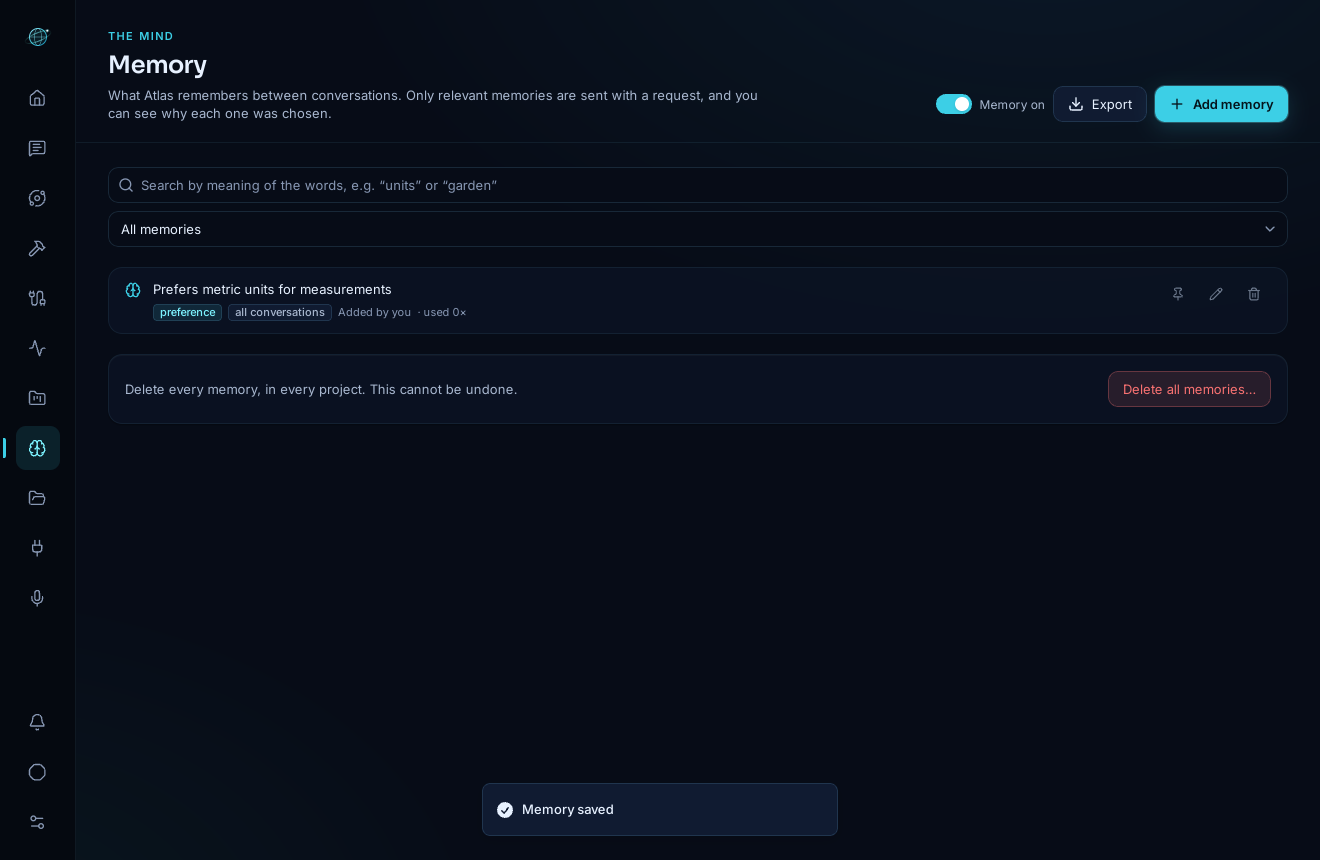
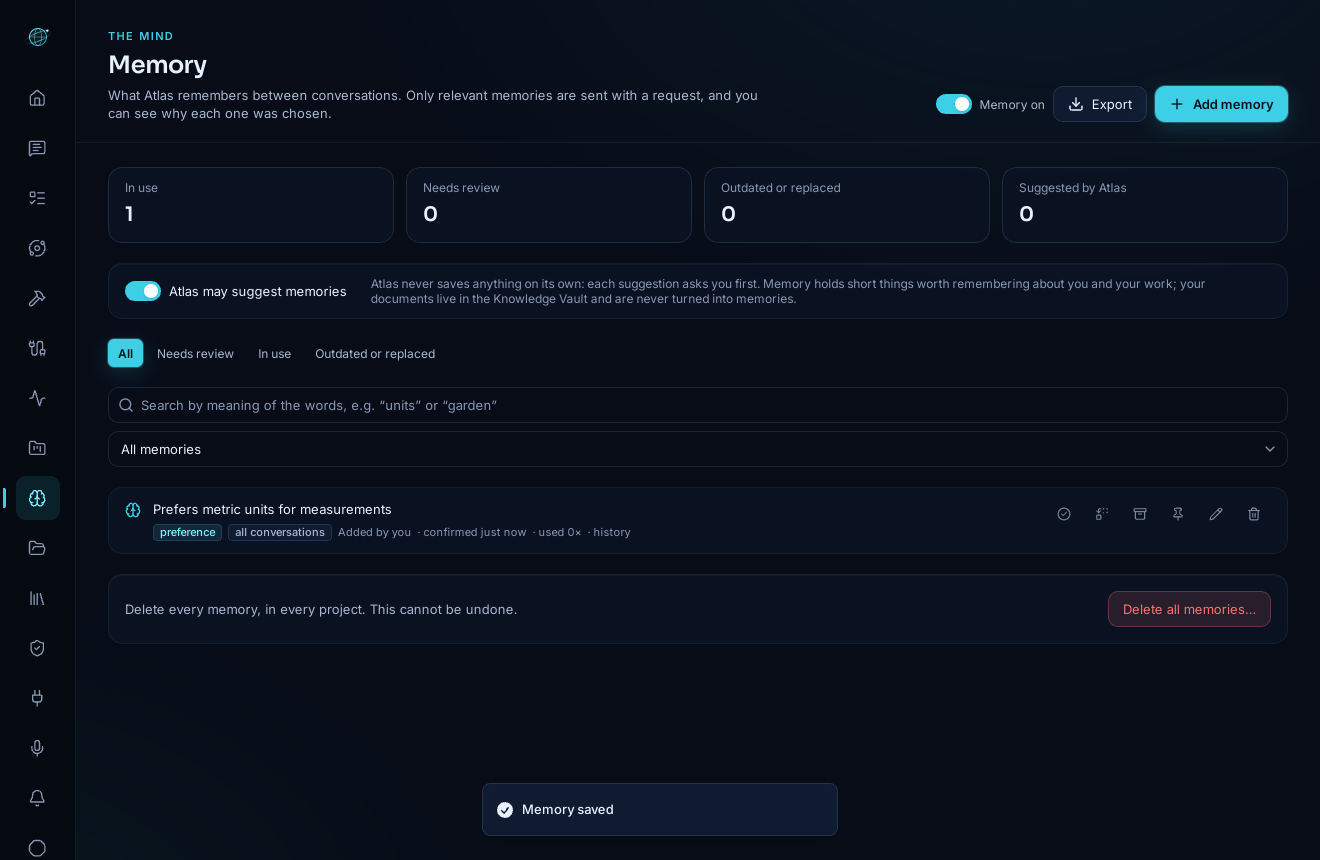
Atlas 0.5.0 stage 6 complete: memory quality and the Trust Center
Rust 222 passed (core 220, shell 2), frontend 88, end-to-end 27 of 27 (main 26
incl. the Memory and Trust Center test and the Trust page in the accessibility
audit; restart 1 incl. memory and activity persistence). Production binary has
none of the test hooks. Screenshots, What's New, test report, test status and
the Stage 7 handover.

Claude-Session: https://claude.ai/code/session_014sw25h5Jgs7X2cf1F1bATJ

diff --git a/atlas/docs/project/STAGE6_TEST_REPORT.md b/atlas/docs/project/STAGE6_TEST_REPORT.md
@@ -1,0 +1,73 @@
+# Stage 6 test report: memory quality and the Trust Center
+
+**Date:** 2026-11-15 · **Branch:** `claude/prometheus-ai-evaluation-pxqzfr` · **Platform:** Linux x86_64
+container (Xvfb, WebKitWebDriver). Windows and macOS: CI on push, not run here. **Not released.**
+Design: `docs/MEMORY.md`, `docs/TRUST_CENTER.md`.
+
+## Results (all on the final code)
+
+| Suite | Command | Result |
+|---|---|---|
+| Rust core, unit | `cargo test -p atlas-core` (lib) | 127 passed, 1 ignored (OS keyring; Windows CI). New: memory lifecycle 3 (duplicates and conflicts, corrections/supersession/outdated/review, budget), audit 1, Trust Center 1 |
+| Rust core, integration | (same, `tests/*.rs`) | 93 passed: **trust 8** (new), vault 13, engine 31, focus 8, scheduler 8, briefing 3, sibling bridge 6, todos 7, voice 9 |
+| Rust core, ignored by design | (same) | 6: live providers 2, real Prometheus runtime 1, real voice engines 1, opt-in Vault fixture check 1, OS keyring 1 |
+| Rust desktop shell | `cargo test -p atlas-desktop` | 2 passed |
+| Clippy `-D warnings` | core all targets; shell all targets with `--features e2e` | clean |
+| Frontend | `pnpm typecheck`, `pnpm lint`, `vitest run` | clean, clean, **88 passed** (17 files; 82 before + 6 Trust Center and Memory tests) |
+| End-to-end, main phase | `tests/e2e/run.sh` → `app.e2e.mjs` | **26 of 26** (25 before + the Memory and Trust Center test; the accessibility audit now includes the Trust Center) |
+| End-to-end, restart phase | `restart.e2e.mjs` | **1 of 1** (now also checks memories and the activity record after relaunch) |
+| Production/test separation | `tests/release/no-test-hooks.sh` | production debug binary: none of the 5 test hooks; e2e binary: all 5 |
+
+Totals: Rust 222 passed, 0 failed. Frontend 88. End-to-end 27 of 27.
+
+## The directive's end-to-end flow (§13)
+
+| # | Step | Where |
+|---|---|---|
+| 1 | Create a useful memory | e2e: Atlas proposes, the owner approves in the conversation |
+| 2 | Retrieve it later | e2e: a new conversation; the scripted model answers only from the memories it was given |
+| 3–4 | Correct it; the corrected one is used | e2e: Memory page edit; history shows "Corrected" with the old wording; the next answer uses the new text |
+| 5–6 | Remove it; no longer retrieved | e2e |
+| 7–8 | Disable memory creation; none created | e2e: switched off in the Trust Center; the next proposal is refused by the core (no approval, nothing saved) |
+| 9–10 | Import a Vault document; in the Trust Center | e2e: `vault.import` (by you) |
+| 11–12 | Document question; transmission recorded | e2e: `vault.passages` with the document name, provider, model, stayed on this computer |
+| 13–14 | Revoke a permission; the core refuses | e2e (memory suggestions); core: offline mode turned on while an approval waited stops the action; a gate tightened applies to the very next action |
+| 15–16 | Restart; memory and activity persist | restart phase |
+
+## Automated, simulated, not validated
+
+* **Automated, real code:** the core (engine, dispatcher, approvals, policy, memory, audit), SQLite, the UI
+  in the real webview.
+* **Simulated:** the model (scripted: proposes memories when asked, answers only from the memories and
+  passages in its request); `test.fetch` (a test-only tool that stands in for an internet tool, compiled only
+  with test support).
+* **Not validated end-to-end:** cloud providers (the e2e model is local, so "left this computer" is false
+  there; the true case is covered by `test.fetch` in the core tests and by `provider.request` using
+  `ProviderKind::is_local`), Windows and macOS.
+
+## Defects found during this stage
+
+| Defect | Fix | Test |
+|---|---|---|
+| Permissions were decided from the settings captured when the turn started: a gate tightened mid-turn, or offline mode turned on while an approval waited, did not apply to that turn | Decide from the live settings at request and execution time, and again after the approval | `a_permission_revoked_while_an_approval_waits…`, `the_next_action_follows_the_settings…` |
+| Duplicate detection (new code) used search terms, which drop numbers and short words: "room 12" and "room 14" would collide | Compare every word | memory unit test |
+| Owner-started Vault actions were recorded as Atlas's | Recorded with actor "user" | screenshot 25b |
+
+## Performance (measured, debug build)
+
+5,000 audit events written in 346 ms; one filtered timeline page in 0.45 ms; a memory search over 2,000
+memories in 13 ms (`scale_thousands_of_events_and_memories_stay_fast`). The UI loads the timeline 40
+events at a time.
+
+## Security checks
+
+* No secret in the activity log (redaction test); no message, memory or document text in it (core and e2e).
+* The window cannot authorize: controls call validated commands; the dispatcher enforces at execution.
+* Memories are labelled as overridable, never instructions; a document cannot create a memory (the tool
+  description forbids it, and every proposal needs the owner's approval).
+* The activity log is read-only from the Trust Center; clearing it is itself recorded.
+
+## Connectors
+
+Mobbin: unavailable (paid plan). No new libraries were needed, so Context7 and Parallel Search were not
+used this stage. Sentry and Supabase: not used; Atlas has neither.

diff --git a/atlas/docs/project/CURRENT_STATE.md b/atlas/docs/project/CURRENT_STATE.md
@@ -2,7 +2,7 @@
 
 **Updated:** 2026-11-14 · **Branch:** `claude/prometheus-ai-evaluation-pxqzfr` · **Released:** 0.4.2
 
-**Working on:** 0.5.0, Stage 6 (memory quality, Trust Center) is next. Plan: `PLAN_0.5-0.7.md`.
+**Working on:** 0.5.0, Stage 7 (specialists, personality) is next. Plan: `PLAN_0.5-0.7.md`.
 
 ## Standing rules from the owner
 * Every new feature gets a screenshot in `docs/screenshots/` and `docs/WHATS_NEW_SCREENSHOTS.md`.
@@ -19,18 +19,20 @@
 | 3 Command Center, briefing | Done (tests + e2e + screenshots) |
 | 4 Focus Mode, recap | Done (tests + e2e incl. restart + screenshots; `STAGE4_TEST_REPORT.md`) |
 | 5 Knowledge Vault | Done (tests + e2e + screenshots; `STAGE5_TEST_REPORT.md`, `docs/KNOWLEDGE_VAULT.md`) |
-| 6 Memory quality, Trust Center | Not started |
+| 6 Memory quality, Trust Center | Done (tests + e2e + screenshots; `STAGE6_TEST_REPORT.md`, `docs/MEMORY.md`, `docs/TRUST_CENTER.md`) |
 | 7 Specialists, personality | Not started |
 
 ## Next
-Stage 6: memory quality and the Trust Center (`PLAN_0.5-0.7.md`; `ATLAS_0.5_AUDIT.md`). Migration v8 =
-memory quality, additive, with an upgrade test from v7 holding data (Vault documents and sources
-included). The Trust Center should present what is already recorded in the activity log, including the
-Knowledge Vault's `vault.import`, `vault.indexed`, `vault.failed`, `vault.reindex`, `vault.move`,
-`vault.remove` and `vault.passages` (with whether passages were sent and whether the model was local),
-plus file access, approvals and the global pause. Every feature gets a screenshot and a WHATS_NEW entry.
+Stage 7, the last 0.5.0 stage: personality depth and specialist agents (`PLAN_0.5-0.7.md` §4:
+"Personality depth ✔" for 0.5.0; "Specialist agents: design + role registry" for 0.5.0, full
+orchestration in 0.6.0; `ATLAS_0.5_AUDIT.md`: initiative and follow-up behaviour, voice delivery, custom
+instructions stay private; specialists as bounded roles inside the existing engine with budgets and
+approvals). Any new schema is v9, additive, with an upgrade test from v8 holding data (memory history and
+structured activity records included). Specialists must use the same dispatcher, permissions,
+revalidation and activity record as everything else, and appear in the Trust Center. Every feature gets a
+screenshot and a WHATS_NEW entry. Do not publish 0.5.0 until the owner says so.
 
-Carried over from stage 5 (limitations, not blockers; see `docs/KNOWLEDGE_VAULT.md` §10): no OCR, no
-semantic search, protected PDFs with a password cannot be opened, the reader shows extracted text only.
-The "held back under local-only" path is covered by unit and core tests, not end-to-end (the e2e model
-runs locally). Mobbin was unavailable for design research (paid plan).
+Carried over (limitations, not blockers): no OCR, no semantic search (Vault and memory are keyword
+based); the Trust Center reads the activity record, so actions taken before schema 8 have only their
+original kind and level; the "withheld under local-only" path and cloud-provider attribution are tested in
+the core, not end-to-end (the e2e model is local); Mobbin was unavailable (paid plan).

diff --git a/atlas/docs/WHATS_NEW_SCREENSHOTS.md b/atlas/docs/WHATS_NEW_SCREENSHOTS.md
@@ -136,3 +136,26 @@ exact passage (here, page 2 of the PDF):
 Captured by the end-to-end suite from the real app (automated-test build, scripted model) with documents
 generated by `tests/e2e/make_vault_fixtures.py`. The file picker is the one stand-in: WebDriver cannot
 operate a native dialog, so the test build allows the fixture paths directly.
+
+## 0.5.0 (in progress, not released): memory you can trust, and the Trust Center
+
+Every memory says who worded it, when you last confirmed it and where it came from. Atlas proposed this
+one in a conversation and you approved it:
+
+![Memory](screenshots/24-memory.png)
+
+Corrections are kept as history, and the corrected version is what Atlas uses from then on:
+
+![Memory history](screenshots/24b-memory-history.png)
+
+The Trust Center: what Atlas did this week, what is running, where your messages go (here, a model on
+this computer, so nothing was sent off it), and every permission the core enforces, each with a control:
+
+![Trust Center](screenshots/25-trust-center.png)
+
+The activity record in plain sentences, here filtered to the Knowledge Vault: imports, indexing, and which
+documents' passages went with a message, to which model, and whether they stayed on this computer:
+
+![Trust Center activity](screenshots/25b-trust-timeline.png)
+
+Captured by the end-to-end suite from the real app (automated-test build, scripted model).

diff --git a/atlas/docs/project/TEST_STATUS.md b/atlas/docs/project/TEST_STATUS.md
@@ -2,6 +2,7 @@
 
 | Date | Commit | Rust | Frontend | Python | End-to-end | CI | Install/upgrade |
 |---|---|---|---|---|---|---|---|
+| 2026-11-15 | 0.5.0 stage 6 (unreleased) | 222 pass | 88 pass | not run | 27 of 27 (26 + restart 1) | on push | Schema 1–7 → 8 tested |
 | 2026-11-14 | 0.5.0 stage 5 (unreleased) | 209 pass | 82 pass | not run | 26 of 26 (25 + restart 1) | on push | Schema 1–6 → 7 tested |
 | 2026-11-14 | 0.5.0 stage 4 (unreleased) | 184 pass | 75 pass | not run | 25 of 25 (24 + restart 1) | on push | Schema 1–5 → 6 tested |
 | 2026-11-11 | 2d6697d (0.4.2) | 143 pass | 61 pass | 409 pass | 19 of 19 | 5 of 5 green | Pass from 0.4.1 and 0.3.0 |
